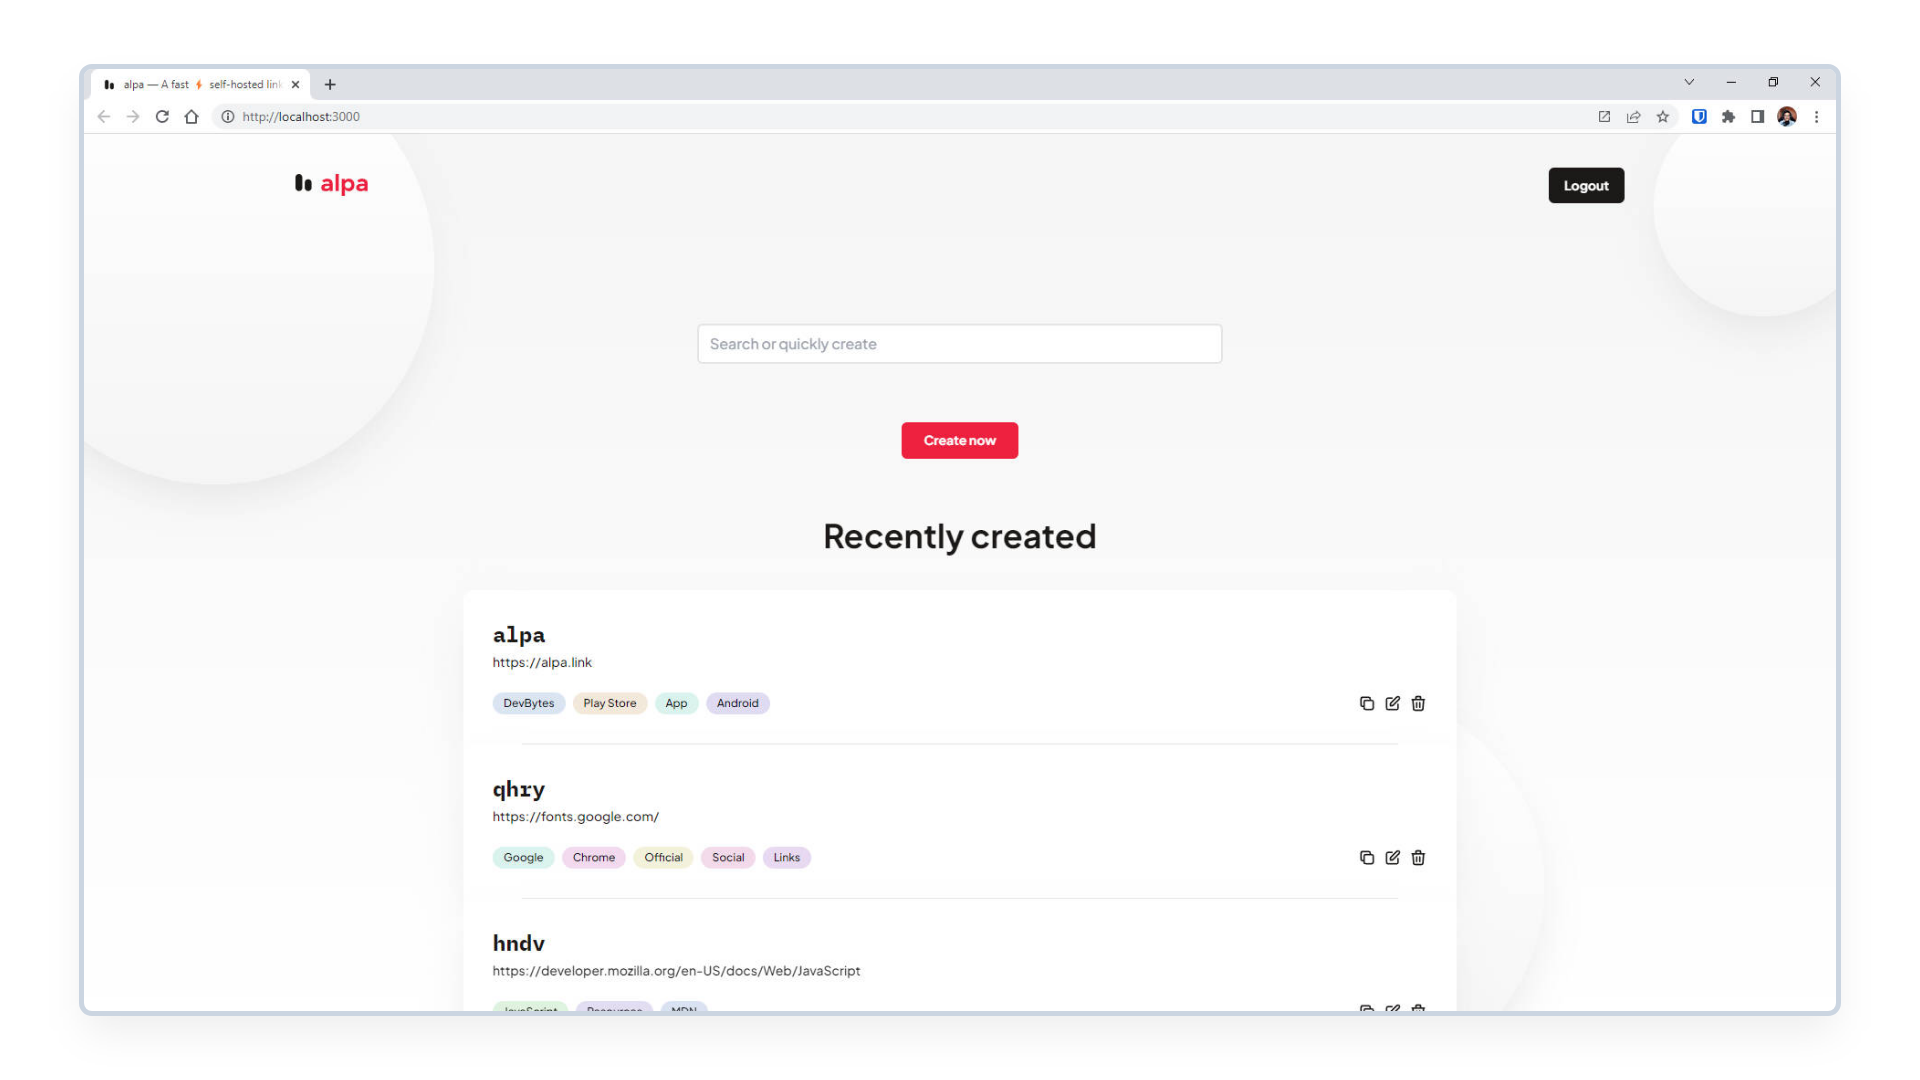
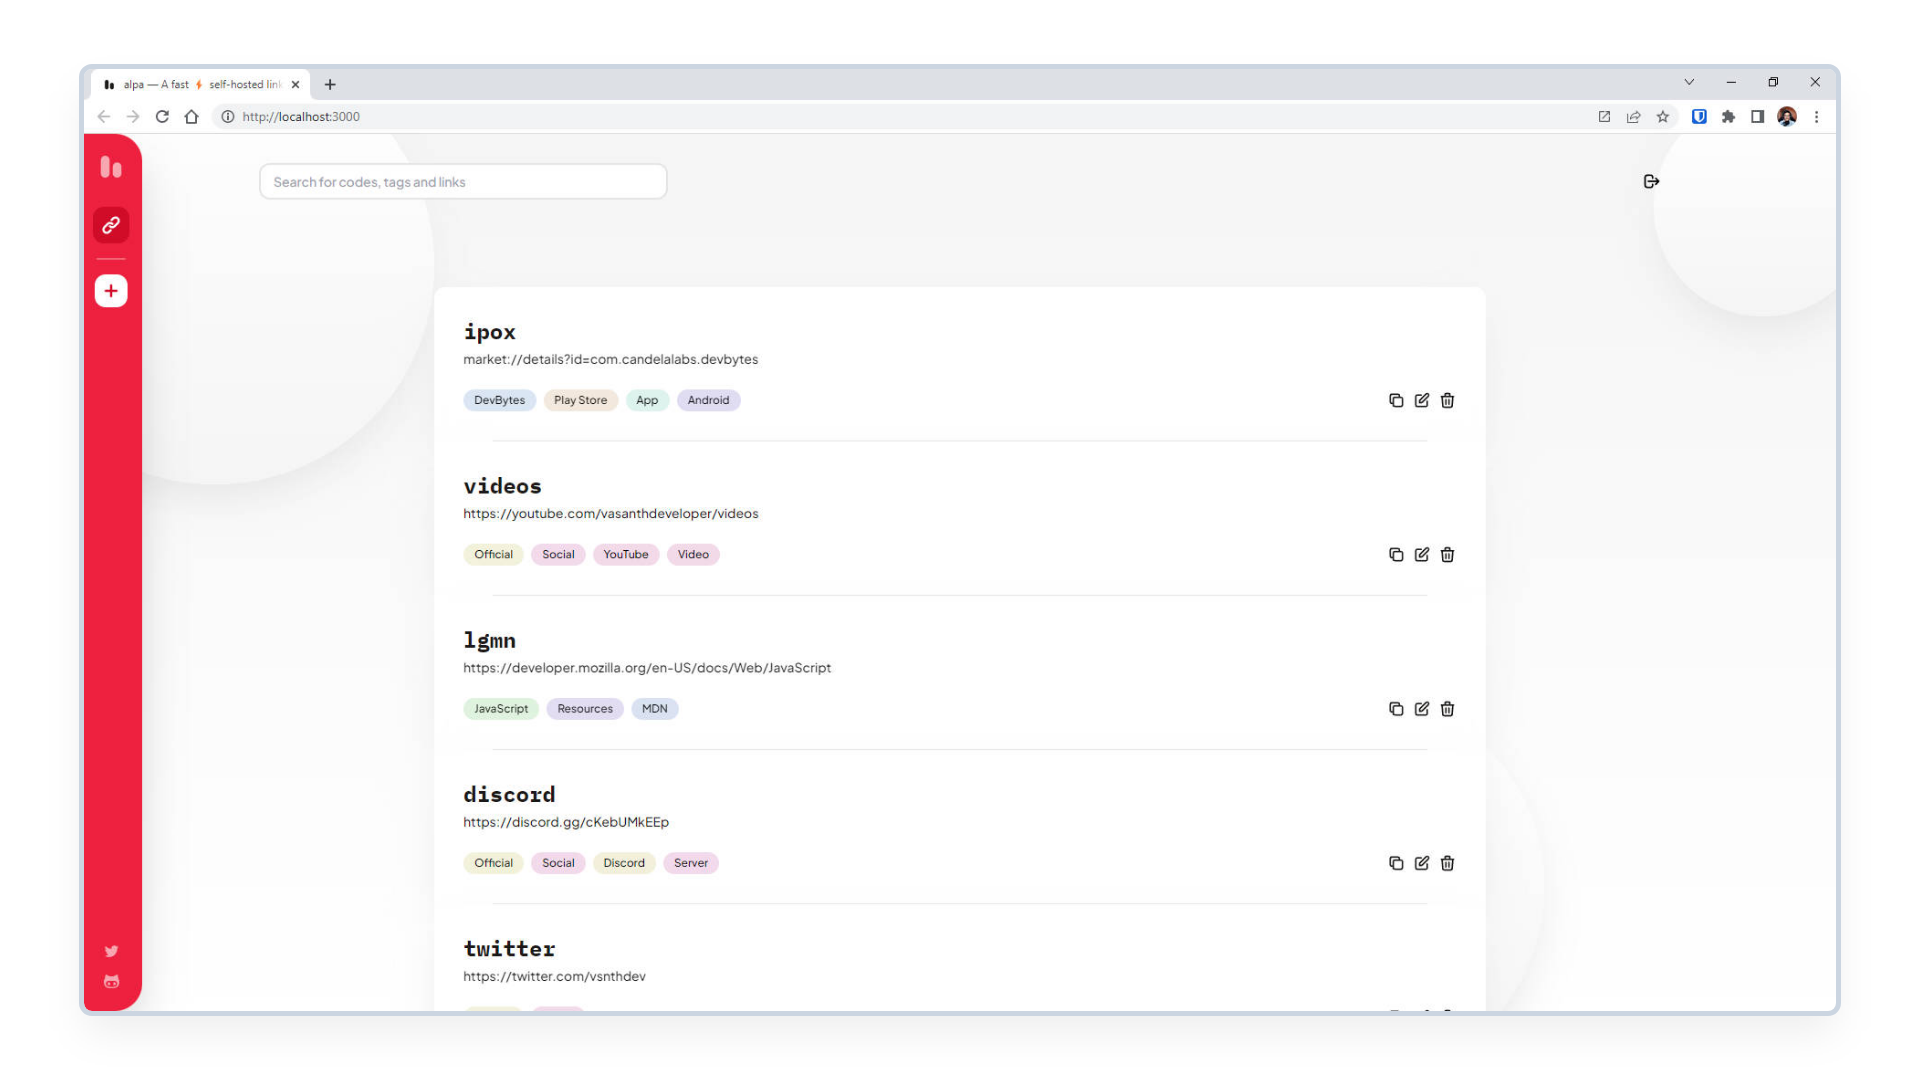
🐛 api: fixed codes in GET /api/codes aren't sorted

diff --git a/api/src/server/routes/codes/list/index.ts b/api/src/server/routes/codes/list/index.ts
@@ -14,6 +14,11 @@ interface RequestQuery {
     search: string
 }
 
+interface ResponseImpl {
+    total: number
+    codes: Code[]
+}
+
 const keysToCodes = async (keys: string[]): Promise<Code[]> => {
     const codes: any[] = []
 
@@ -36,15 +41,35 @@ const documentsToCodes = async (docs: any[]) => {
     return codes
 }
 
-const getRecentList = async (query: RequestQuery) => {
+const getRecentList = async (query: RequestQuery): Promise<ResponseImpl> => {
+    // get the number of total keys in the database
+    const total: number = await db.codes.dbSize()
+
+    // create a response skeleton object
+    const res: ResponseImpl = {
+        total: -1,
+        codes: [],
+    }
+
+    // handle when there are no codes in the database
+    if (total == 0) return { ...res, ...{ total: 0 } }
+
+    // initialize the cursor variable
     if (typeof query.cursor != 'string') query.cursor = '0'
-    const { cursor: now, keys } = await db.codes.scan(parseInt(query.cursor), {
-        COUNT: 50,
+
+    // now fetch keys from our sorted set in Redis
+    const count = 10
+    const start = count * parseInt(query.cursor)
+    const end = start + (count - 1)
+
+    const keys = await db.config.zRange('codes', start, end, {
+        REV: true,
     })
 
+    // convert database keys to actual codes
     const codes = await keysToCodes(keys)
 
-    return { cursor: now, codes }
+    return { ...res, ...{ total: Math.round(total / count), codes } }
 }
 
 const executeQuery = async ({ search }: RequestQuery) => {

diff --git a/api/src/server/routes/codes/make/index.ts b/api/src/server/routes/codes/make/index.ts
@@ -42,6 +42,21 @@ const handler = async (req: FastifyRequest, rep: FastifyReply) => {
             message: 'Updated the code',
         })
     } else {
+        // fetch the last value in sorted list and it's score
+        let lastScore: number
+        try {
+            const [last] = await db.config.zRangeWithScores('codes', 0, 0, {
+                REV: true,
+            })
+
+            lastScore = last.score
+        } catch {
+            lastScore = 0
+        }
+
+        // add the newly created code to our sorted set
+        await db.config.zAdd('codes', { score: lastScore + 1, value: code })
+
         return rep.status(201).send({
             message: 'Created a new code',
         })

diff --git a/api/src/server/routes/codes/delete/index.ts b/api/src/server/routes/codes/delete/index.ts
@@ -16,10 +16,16 @@ export interface ParamsImpl {
 const handler = async (req: FastifyRequest, rep: FastifyReply) => {
     const params = req.params as ParamsImpl
 
+    // check if the given code exists
     const exists = await db.codes.exists(params.code)
     if (!exists) throw boom.notFound()
 
+    // remove it from our codes database
     await db.codes.del(params.code)
+
+    // and also from our sorted array
+    await db.config.zRem('codes', params.code)
+
     return rep.status(204).send('')
 }
 
